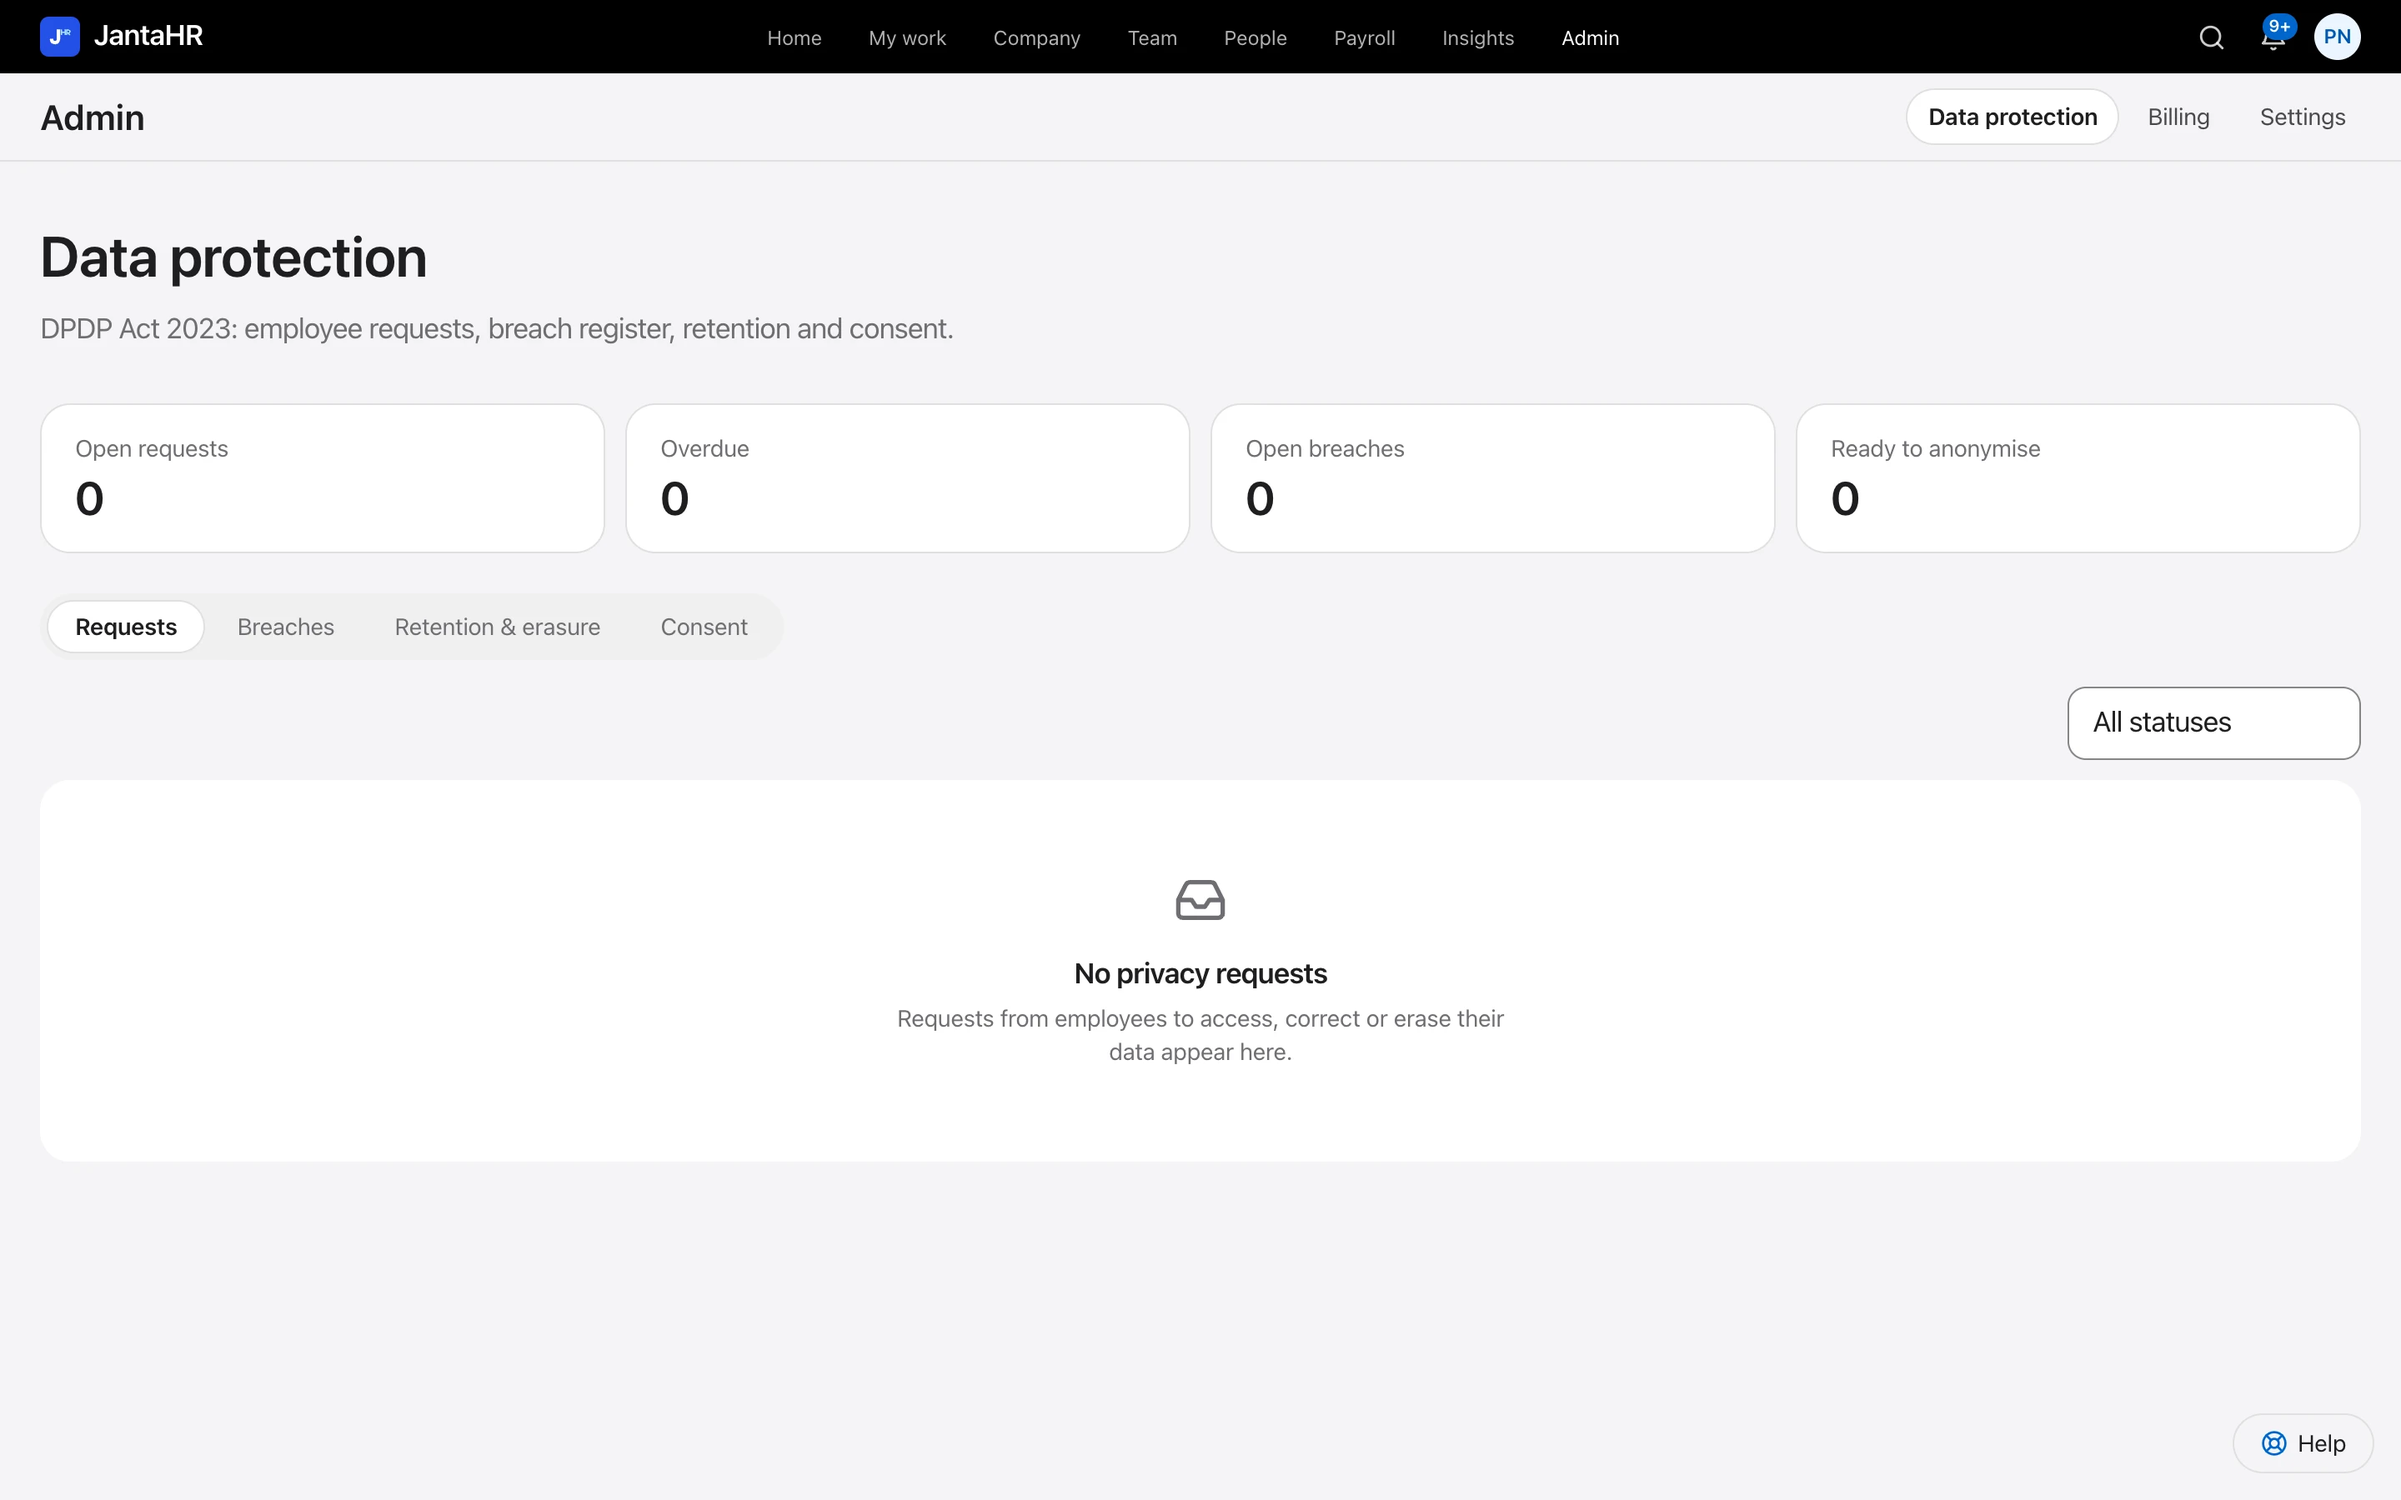
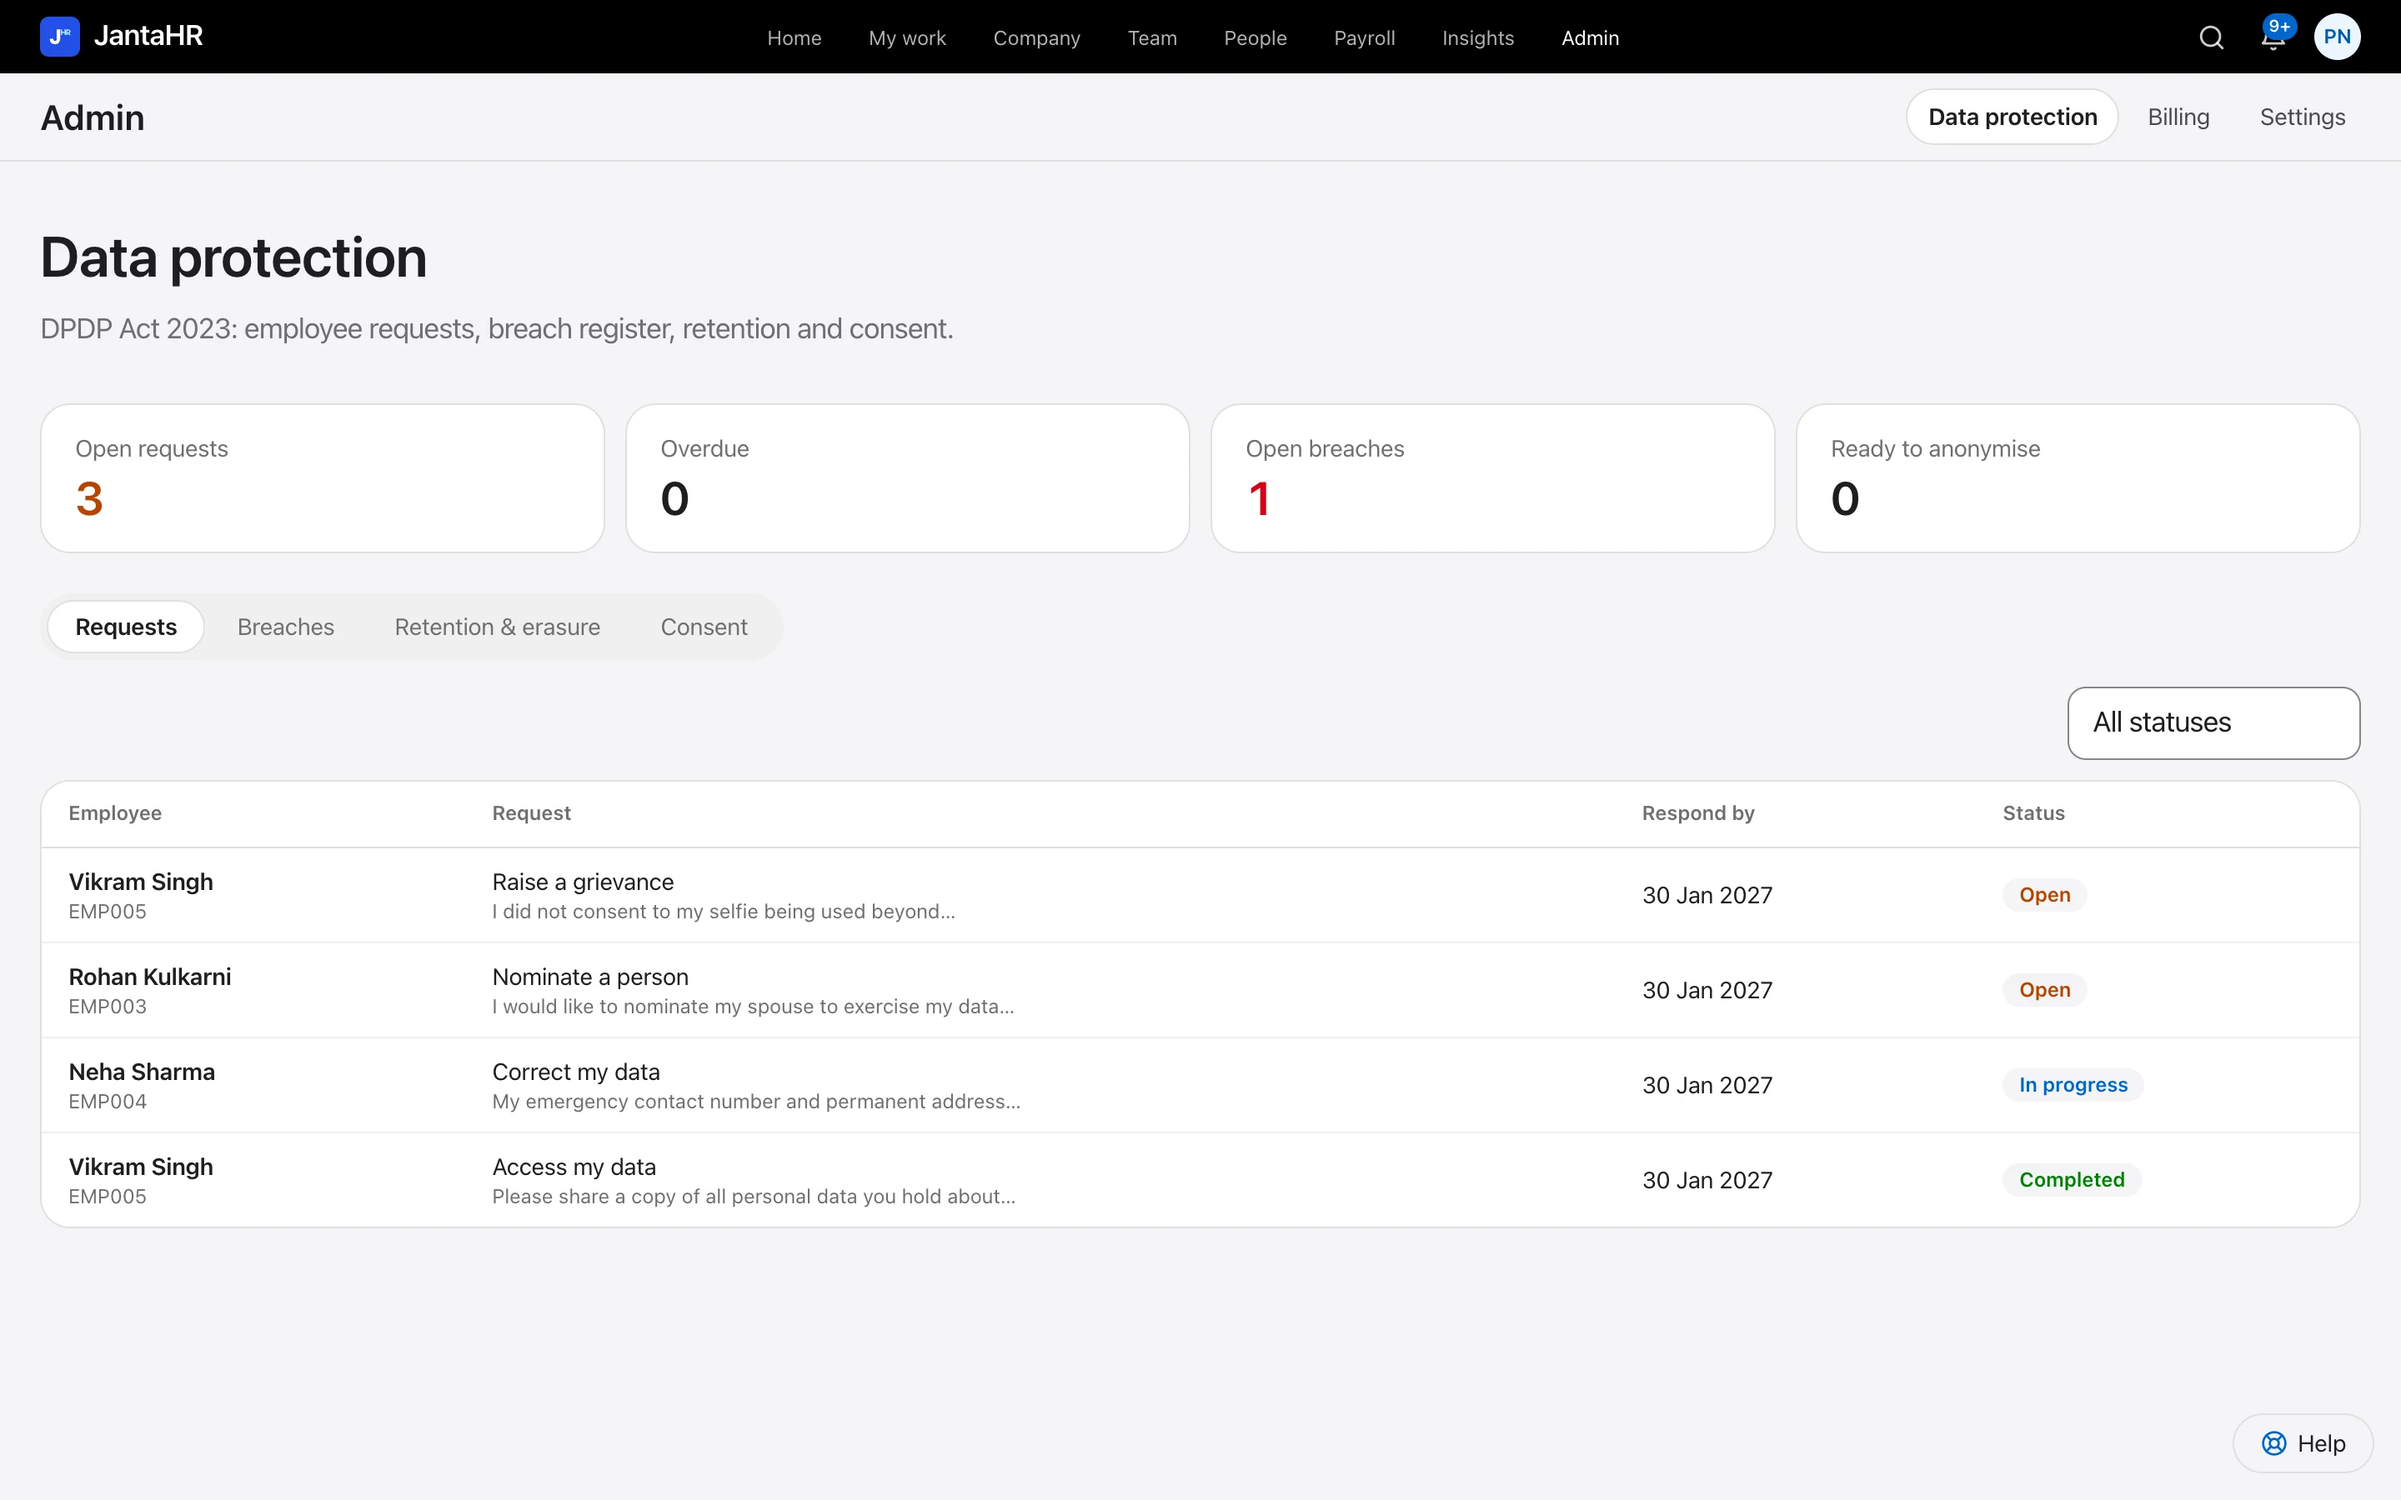
feat(video): replace empty screens with real activity
The DPDP, custom report, appraisal, hiring and exits screens showed zeros
or empty states. They are re-captured after adding activity to the local
demo company through the app's own API and UI: privacy requests and a
contained breach, applicants through the careers form up to a one-click
hire, an approved exit with full and final, the completed appraisal cycle,
and a run of the custom report. Subtitles now use numerals (18, 200).

diff --git a/packages/video/src/cues.ts b/packages/video/src/cues.ts
@@ -3,7 +3,7 @@ import { VO, type Line } from './script';
 export type Cue = { start: number; end: number; text: string };
 
 /** Spoken form to written form for subtitles. */
-const display = (t: string) => t.replace('jantahr dot devshipit dot com', 'jantahr.devshipit.com').replace('fourteen-day', '14-day');
+const display = (t: string) => t.replace('jantahr dot devshipit dot com', 'jantahr.devshipit.com').replace('fourteen-day', '14-day').replace('Eighteen MIS', '18 MIS').replace('two hundred', '200');
 
 /** Seconds each line lasts. Measured from the voiceover files when they exist (public/audio/vo-durations.json). */
 export type Durations = Record<string, number>;

diff --git a/packages/video/README.md b/packages/video/README.md
@@ -67,6 +67,7 @@ Both default to what is true on 2 Nov 2026. Pass them as props, e.g. `--props='{
 | Phone screens | `android-journey` artifact of the "Android app on an emulator" workflow, run 40359572557 (Pixel 6, 1080x2400) |
 | Checked-in hero, "4 days left after this", "1/4 in today" | the app's own web preview (`npx expo start --web`) on the local seeded stack, at phone size; the checked-in hero is laid over the emulator frame at the same pixels |
 | Web pages: payroll run, statutory files, compliance calendar, data protection, recruitment pipeline, careers page, appraisal cycle, exits and F&F, attrition risk, custom report builder, tax regime comparison | `packages/frontend` on `localhost:3000` against `~/.jantahr-dev/stack/mobile-stack.sh` (local test database, auth test double, seeded demo company). Demo logins were never used against production. |
+| Activity behind the DPDP, hiring, exits, appraisal and report screens | added to the local demo company through the app's own API and UI before capture, so no screen is empty: four privacy requests from staff (one completed, one in progress) and one contained breach; four applicants through the public careers form (with the DPDP consent the form requires), moved through screening, interview and offer, and one hired with the one-click hire; the pending resignation approved, clearances done and full & final computed; the completed Annual Review FY 2025-26 cycle selected; the custom report run |
 | Hook cards (spreadsheet, chat, sticky note, register) and the terminal card | drawn in the scene files; the terminal shows the real command from `deploy/self-hosted/README.md` |
 
 ## Voiceover script
